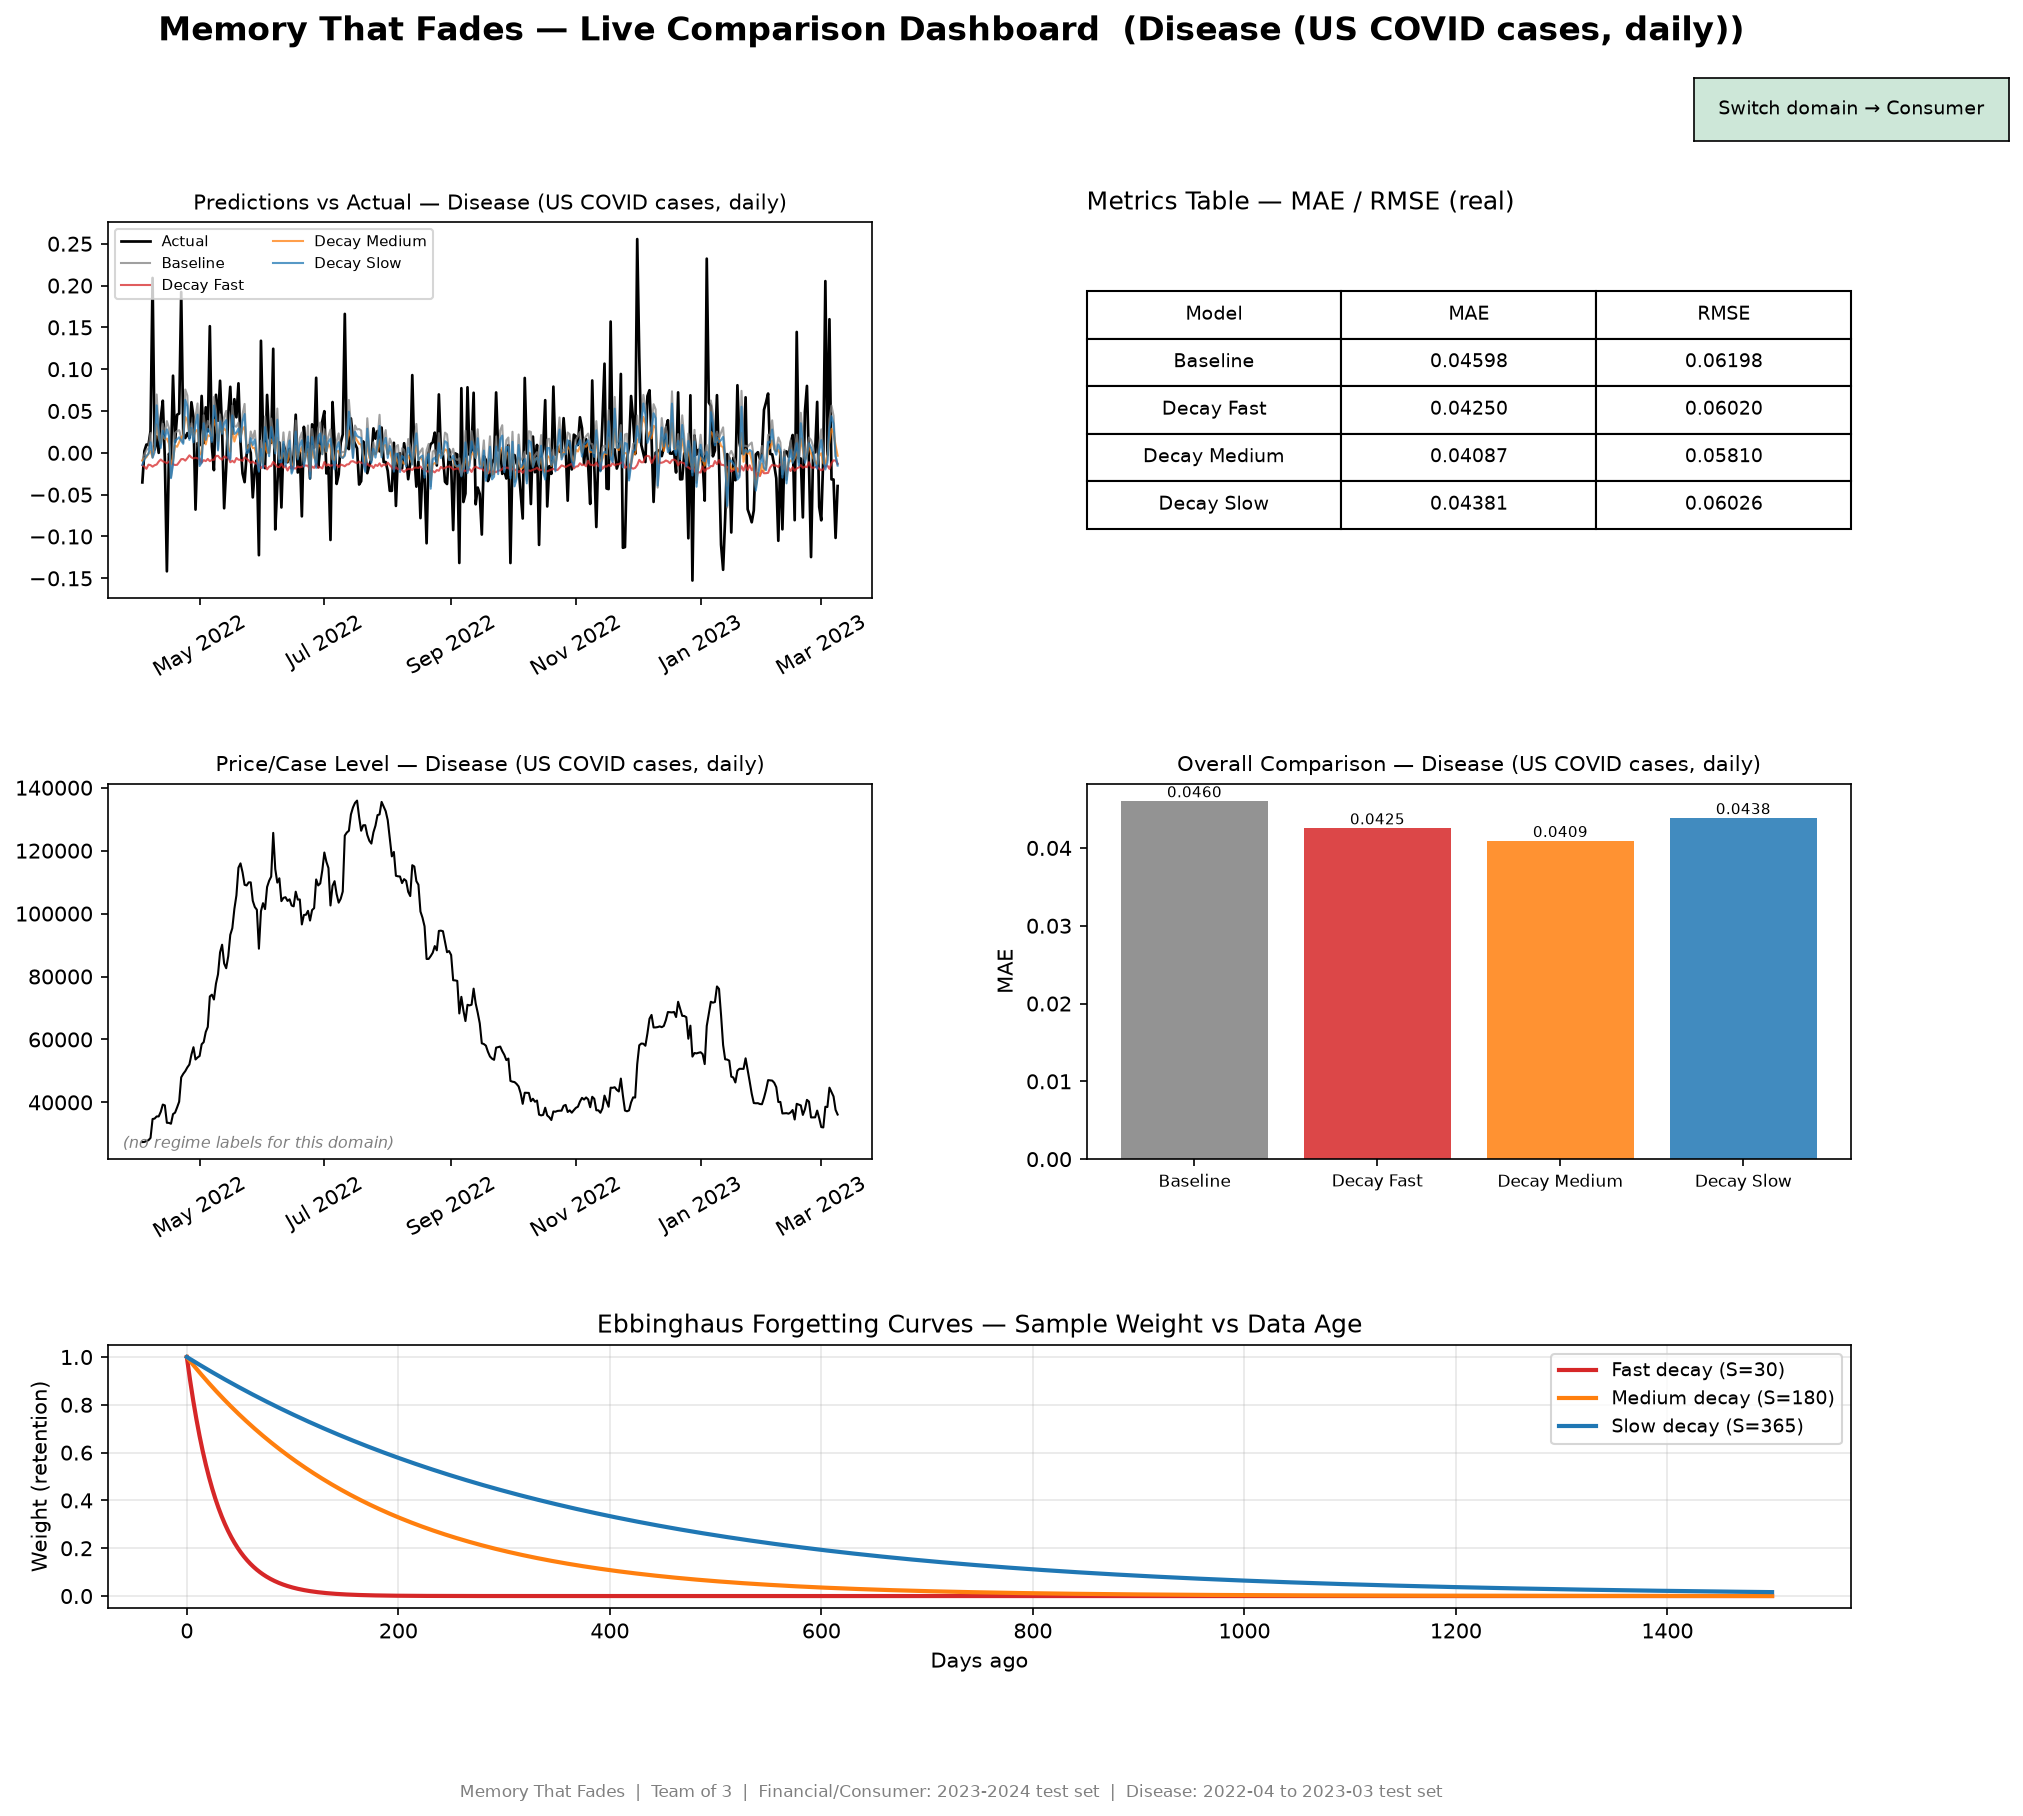
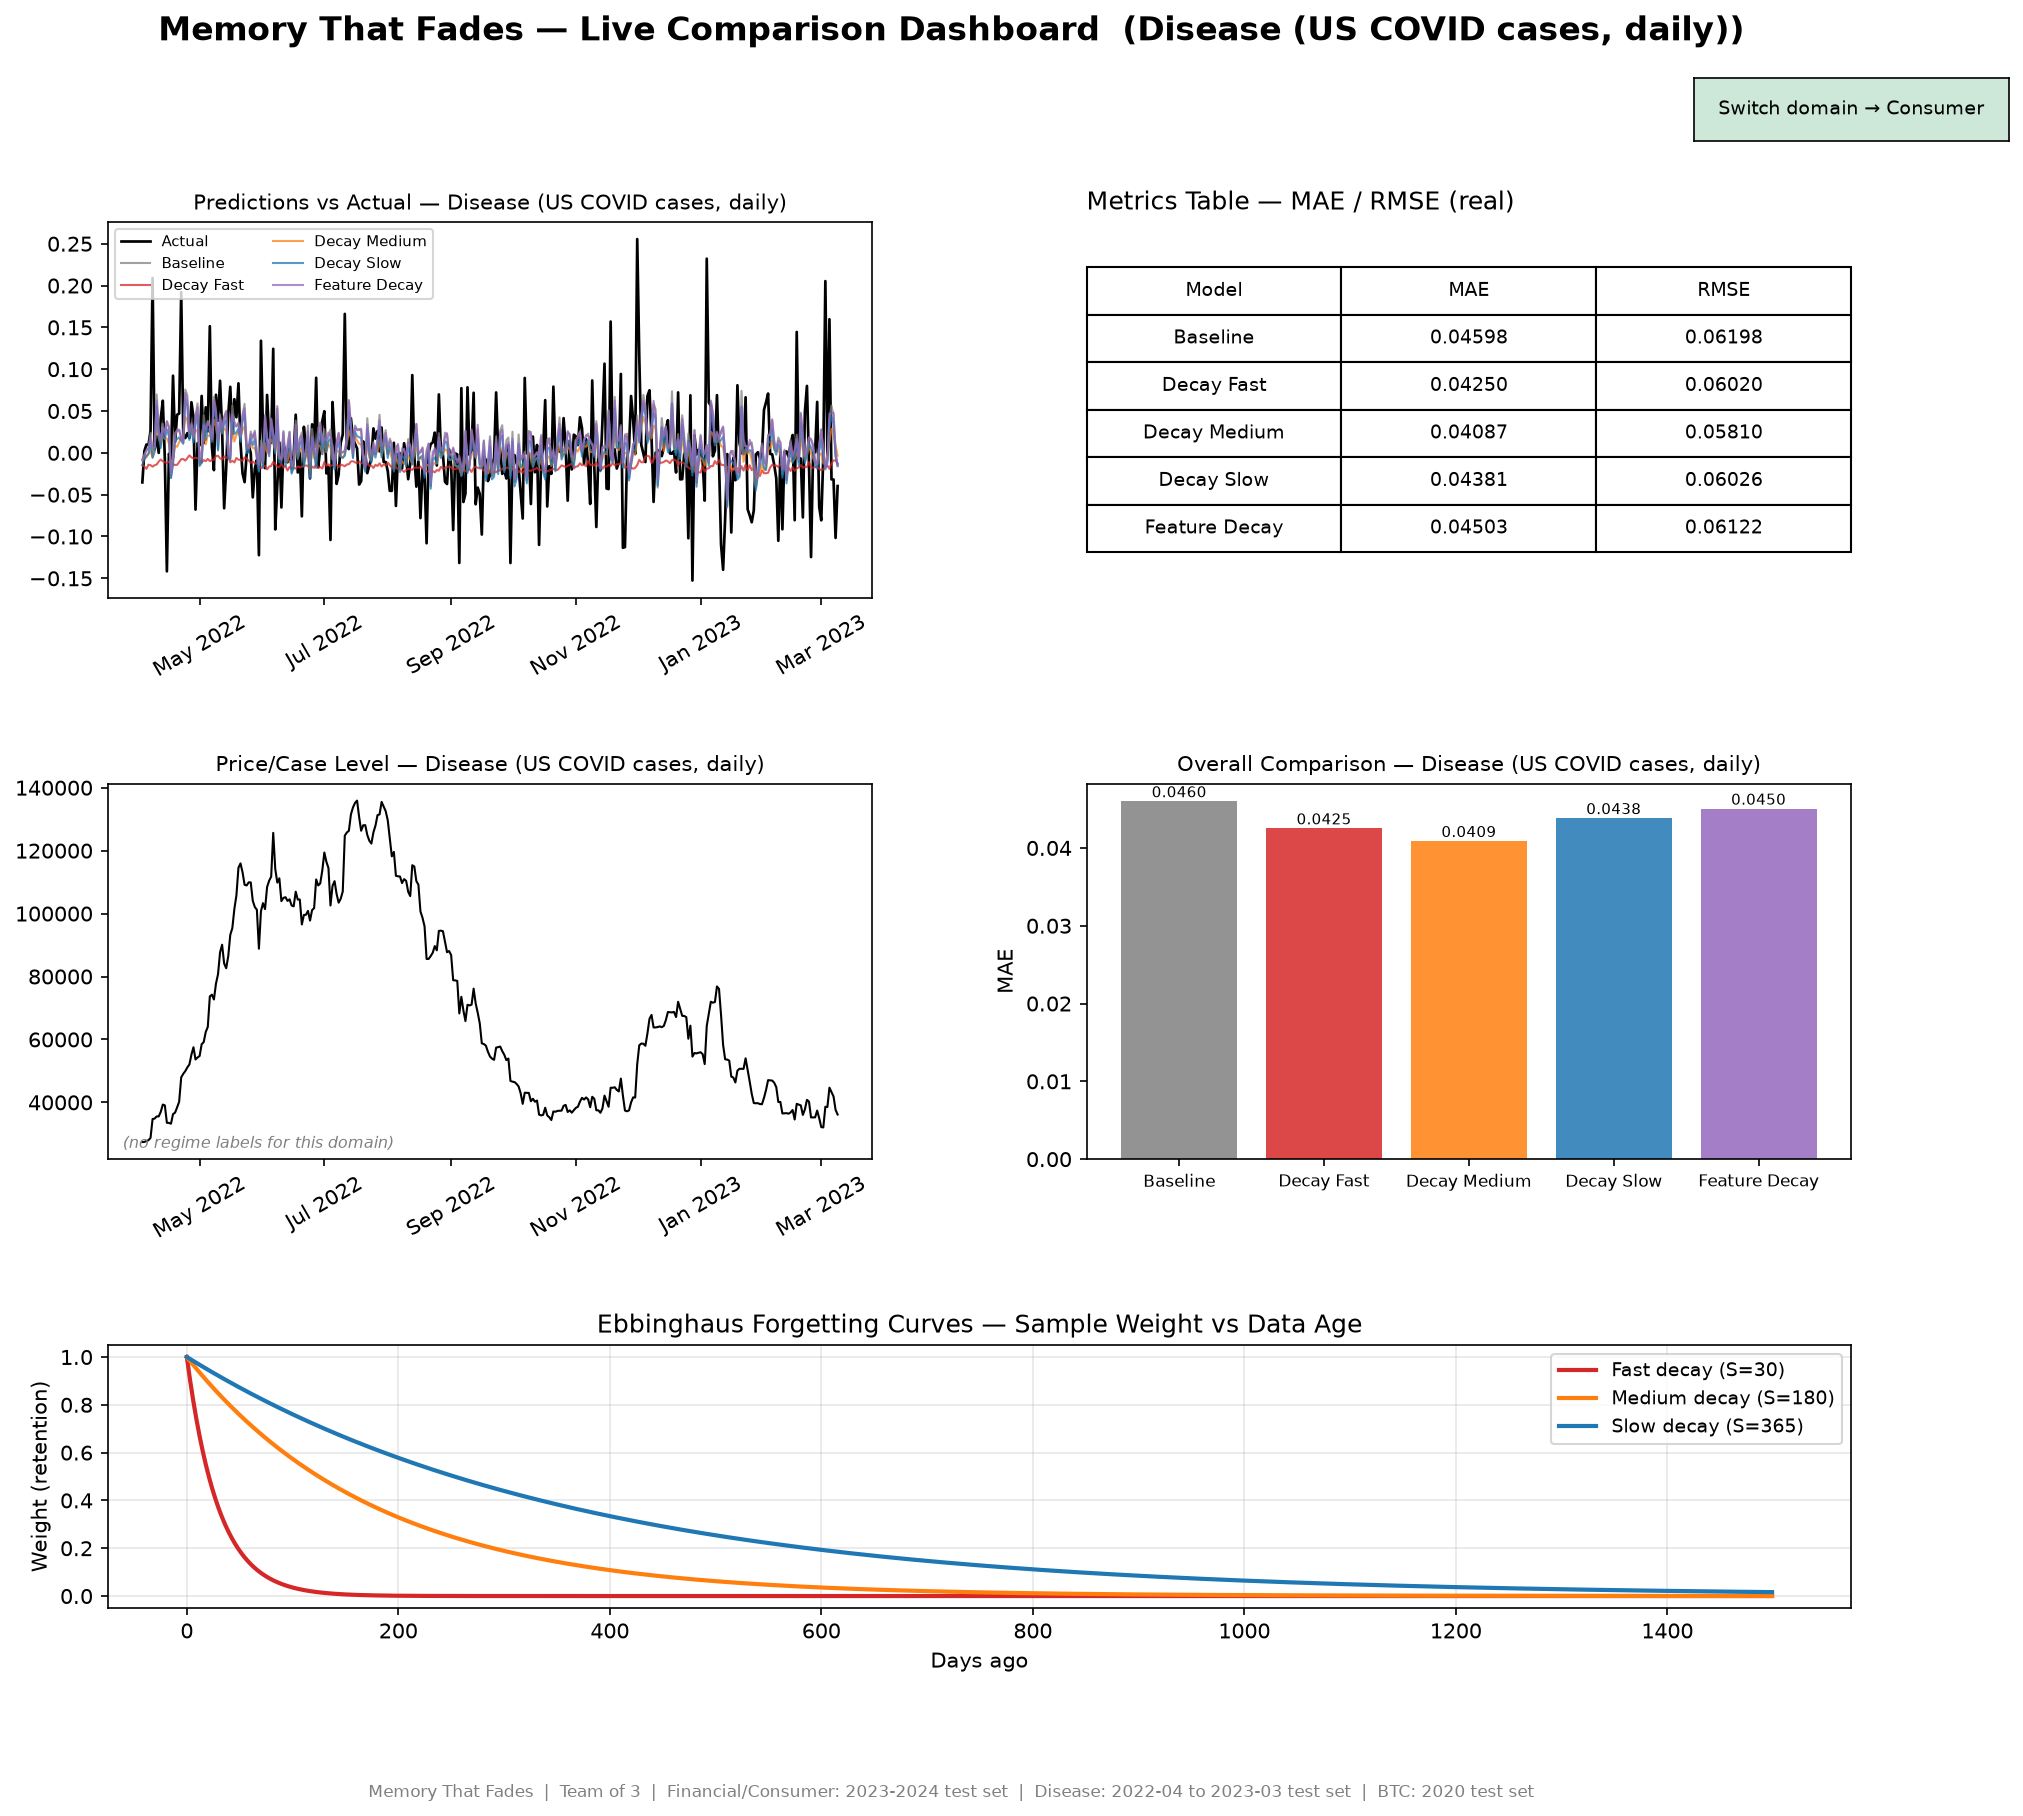
BTC

diff --git a/dashboard/dashboard.py b/dashboard/dashboard.py
@@ -34,6 +34,7 @@ PROJECT_ROOT = os.path.dirname(SCRIPT_DIR)  # dashboard/ sits directly under pro
 sys.path.append(os.path.join(PROJECT_ROOT, "decay_model"))
 from ebbinghaus import ebbinghaus_weight
 from windowing import make_windows  # shared, tested -- see decay_model/windowing.py
+from feature_decay import apply_feature_decay  # new mechanism -- see decay_model/feature_decay.py
 
 BASELINE_MODELS_DIR = os.path.join(PROJECT_ROOT, "baseline_model", "models")
 DECAY_MODELS_DIR = os.path.join(PROJECT_ROOT, "decay_model", "models")
@@ -45,11 +46,12 @@ COLORS = {
     "Decay Fast": "#d62728",
     "Decay Medium": "#ff7f0e",
     "Decay Slow": "#1f77b4",
+    "Feature Decay": "#9467bd",
 }
 REGIME_COLORS = {"volatile": "red", "stable": "green", "neutral": "grey"}
 
 
-def _load_models(model_suffix):
+def _load_models(model_suffix, include_feature_decay=False):
     """model_suffix: '' for financial, '_consumer', or '_disease'."""
     files = {
         "Baseline": os.path.join(BASELINE_MODELS_DIR, f"model_baseline{model_suffix}.pkl"),
@@ -57,15 +59,42 @@ def _load_models(model_suffix):
         "Decay Medium": os.path.join(DECAY_MODELS_DIR, f"model_decay_medium{model_suffix}.pkl"),
         "Decay Slow": os.path.join(DECAY_MODELS_DIR, f"model_decay_slow{model_suffix}.pkl"),
     }
+    if include_feature_decay:
+        files["Feature Decay"] = os.path.join(DECAY_MODELS_DIR, f"model_feature_decay{model_suffix}.pkl")
     models = {}
     for name, path in files.items():
+        if not os.path.exists(path):
+            continue  # e.g. BTC has no Decay Fast/Medium/Slow -- only Baseline + Feature Decay exist for it
         with open(path, "rb") as f:
             models[name] = pickle.load(f)
     return models
 
 
-def _predict_all(models, X):
-    return {name: m.predict(X).flatten() for name, m in models.items()}
+def _load_models_btc():
+    """BTC only has two models -- Baseline and Feature Decay -- sample-level
+    decay was never built for this domain, so there's no Decay Fast/Medium/Slow."""
+    models = {}
+    with open(os.path.join(BASELINE_MODELS_DIR, "model_baseline_btc.pkl"), "rb") as f:
+        models["Baseline"] = pickle.load(f)
+    with open(os.path.join(DECAY_MODELS_DIR, "model_feature_decay_btc.pkl"), "rb") as f:
+        models["Feature Decay"] = pickle.load(f)
+    return models
+
+
+def _predict_one(model_entry, X, window):
+    """A plain model is a fitted Ridge -- predict directly. A feature-decay
+    model is saved as {"model":..., "S":..., "window":...} (see
+    train_feature_decay_btc.py / train_feature_decay_disease.py) because it
+    needs its input transformed with the SAME S before predicting -- it was
+    never fit on raw X."""
+    if isinstance(model_entry, dict) and "model" in model_entry:
+        X_transformed = apply_feature_decay(X, model_entry["window"], model_entry["S"])
+        return model_entry["model"].predict(X_transformed).flatten()
+    return model_entry.predict(X).flatten()
+
+
+def _predict_all(models, X, window):
+    return {name: _predict_one(m, X, window) for name, m in models.items()}
 
 
 def load_financial_domain():
@@ -79,7 +108,7 @@ def load_financial_domain():
     regimes = lookup.loc[pd.to_datetime(sample_dates), "regime"].values
 
     models = _load_models("")
-    preds = _predict_all(models, X)
+    preds = _predict_all(models, X, 30)
     return {
         "domain_label": "Financial (SPY, daily)",
         "dates": pd.to_datetime(sample_dates), "actual": y.flatten(), "preds": preds,
@@ -101,7 +130,7 @@ def load_consumer_domain():
     regimes = lookup.loc[pd.to_datetime(sample_dates), "regime"].values if has_regime_file else None
 
     models = _load_models("_consumer")
-    preds = _predict_all(models, X)
+    preds = _predict_all(models, X, 12)
     return {
         "domain_label": "Consumer (PCE, monthly)",
         "dates": pd.to_datetime(sample_dates), "actual": y.flatten(), "preds": preds,
@@ -119,10 +148,27 @@ def load_disease_domain():
     lookup = df.set_index("date")
     prices = lookup.loc[pd.to_datetime(sample_dates), "close"].values
 
-    models = _load_models("_disease")
-    preds = _predict_all(models, X)
+    models = _load_models("_disease", include_feature_decay=True)
+    preds = _predict_all(models, X, 30)
     return {
         "domain_label": "Disease (US COVID cases, daily)",
+        "dates": pd.to_datetime(sample_dates), "actual": y.flatten(), "preds": preds,
+        "prices": prices, "regimes": None, "has_regime": False,
+    }
+
+
+def load_btc_domain():
+    df = pd.read_csv(os.path.join(DATA_DIR, "data_btc.csv"), parse_dates=["date"]).sort_values("date").reset_index(drop=True)
+    # matches the test period train_baseline_btc.py / train_feature_decay_btc.py were validated on
+    X, y, sample_dates = make_windows(df, "2020-01-01", "2020-12-31", 30)
+
+    lookup = df.set_index("date")
+    prices = lookup.loc[pd.to_datetime(sample_dates), "close"].values
+
+    models = _load_models_btc()
+    preds = _predict_all(models, X, 30)
+    return {
+        "domain_label": "Crypto (BTC-USD, daily)",
         "dates": pd.to_datetime(sample_dates), "actual": y.flatten(), "preds": preds,
         "prices": prices, "regimes": None, "has_regime": False,
     }
@@ -138,8 +184,9 @@ def build_dashboard():
         "financial": load_financial_domain(),
         "consumer": load_consumer_domain(),
         "disease": load_disease_domain(),
+        "btc": load_btc_domain(),
     }
-    domain_order = ["financial", "consumer", "disease"]
+    domain_order = ["financial", "consumer", "disease", "btc"]
     state = {"domain": "financial"}
 
     plt.rcParams["font.size"] = 10
@@ -240,7 +287,7 @@ def build_dashboard():
     ax_curves.legend(fontsize=9)
     ax_curves.grid(alpha=0.3)
 
-    fig.text(0.5, 0.005, "Memory That Fades  |  Team of 3  |  Financial/Consumer: 2023-2024 test set  |  Disease: 2022-04 to 2023-03 test set",
+    fig.text(0.5, 0.005, "Memory That Fades  |  Team of 3  |  Financial/Consumer: 2023-2024 test set  |  Disease: 2022-04 to 2023-03 test set  |  BTC: 2020 test set",
               ha="center", fontsize=8, color="grey")
 
     domain_ax = fig.add_axes([0.83, 0.925, 0.14, 0.035])
@@ -264,7 +311,7 @@ if __name__ == "__main__":
     fig, _button, draw, state = build_dashboard()
     os.makedirs(RESULTS_DIR, exist_ok=True)
 
-    for domain in ["financial", "consumer", "disease"]:
+    for domain in ["financial", "consumer", "disease", "btc"]:
         draw(domain)
         plt.savefig(os.path.join(RESULTS_DIR, f"dashboard_{domain}_view.png"), dpi=150, bbox_inches="tight")
         print(f"Saved {domain}-view screenshot.")
